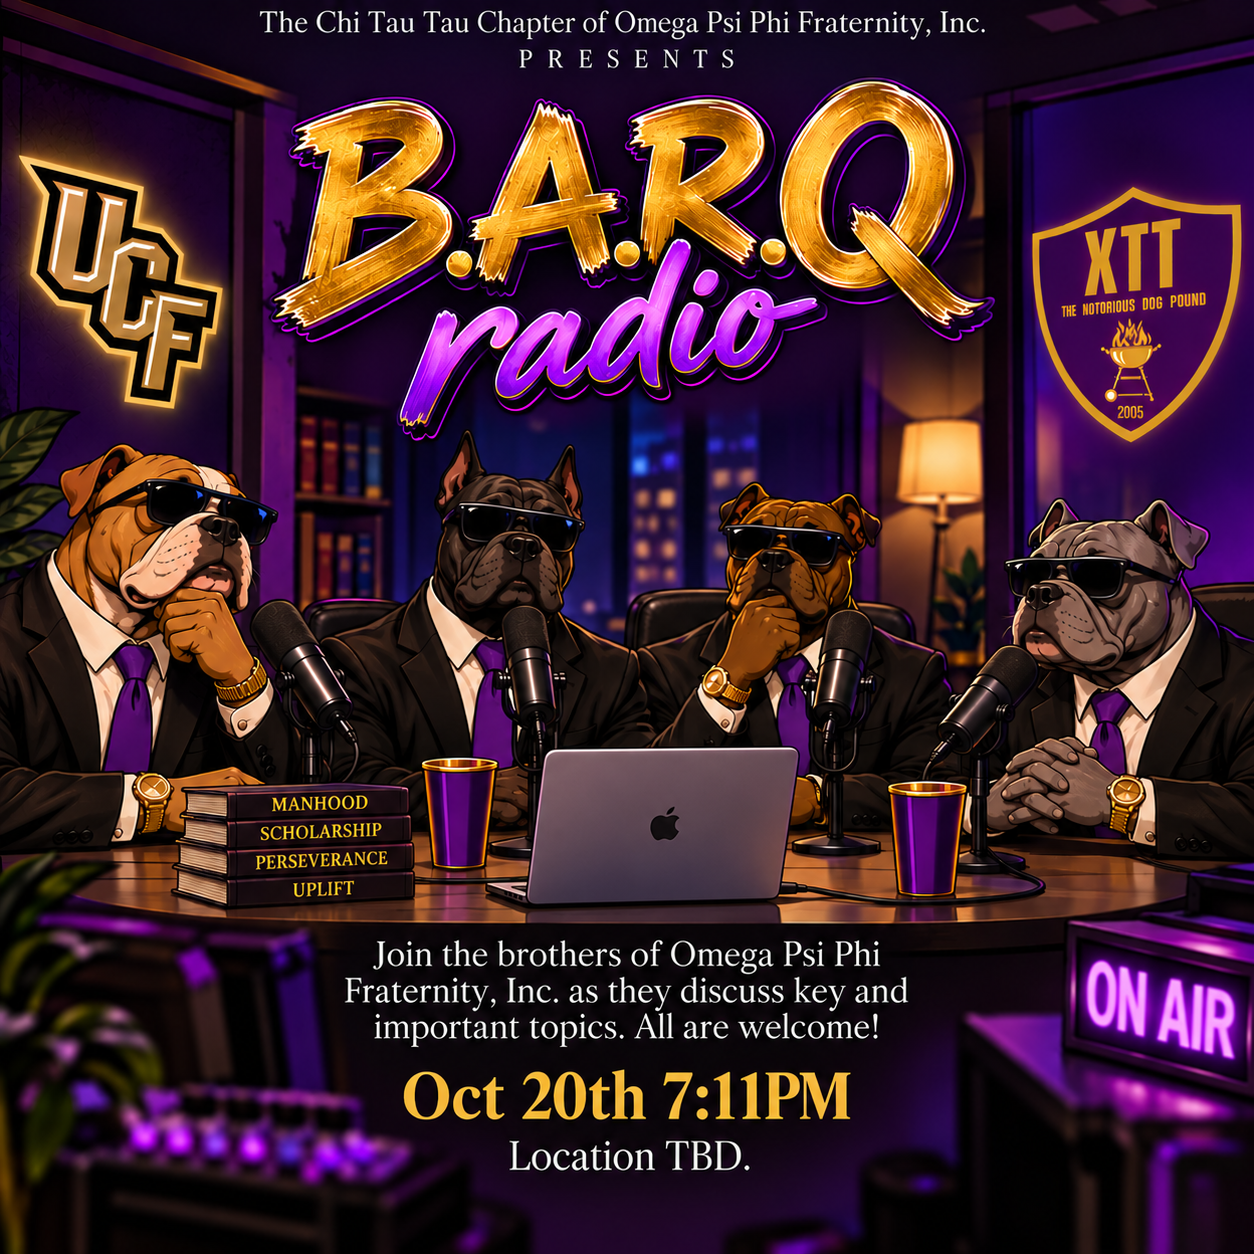
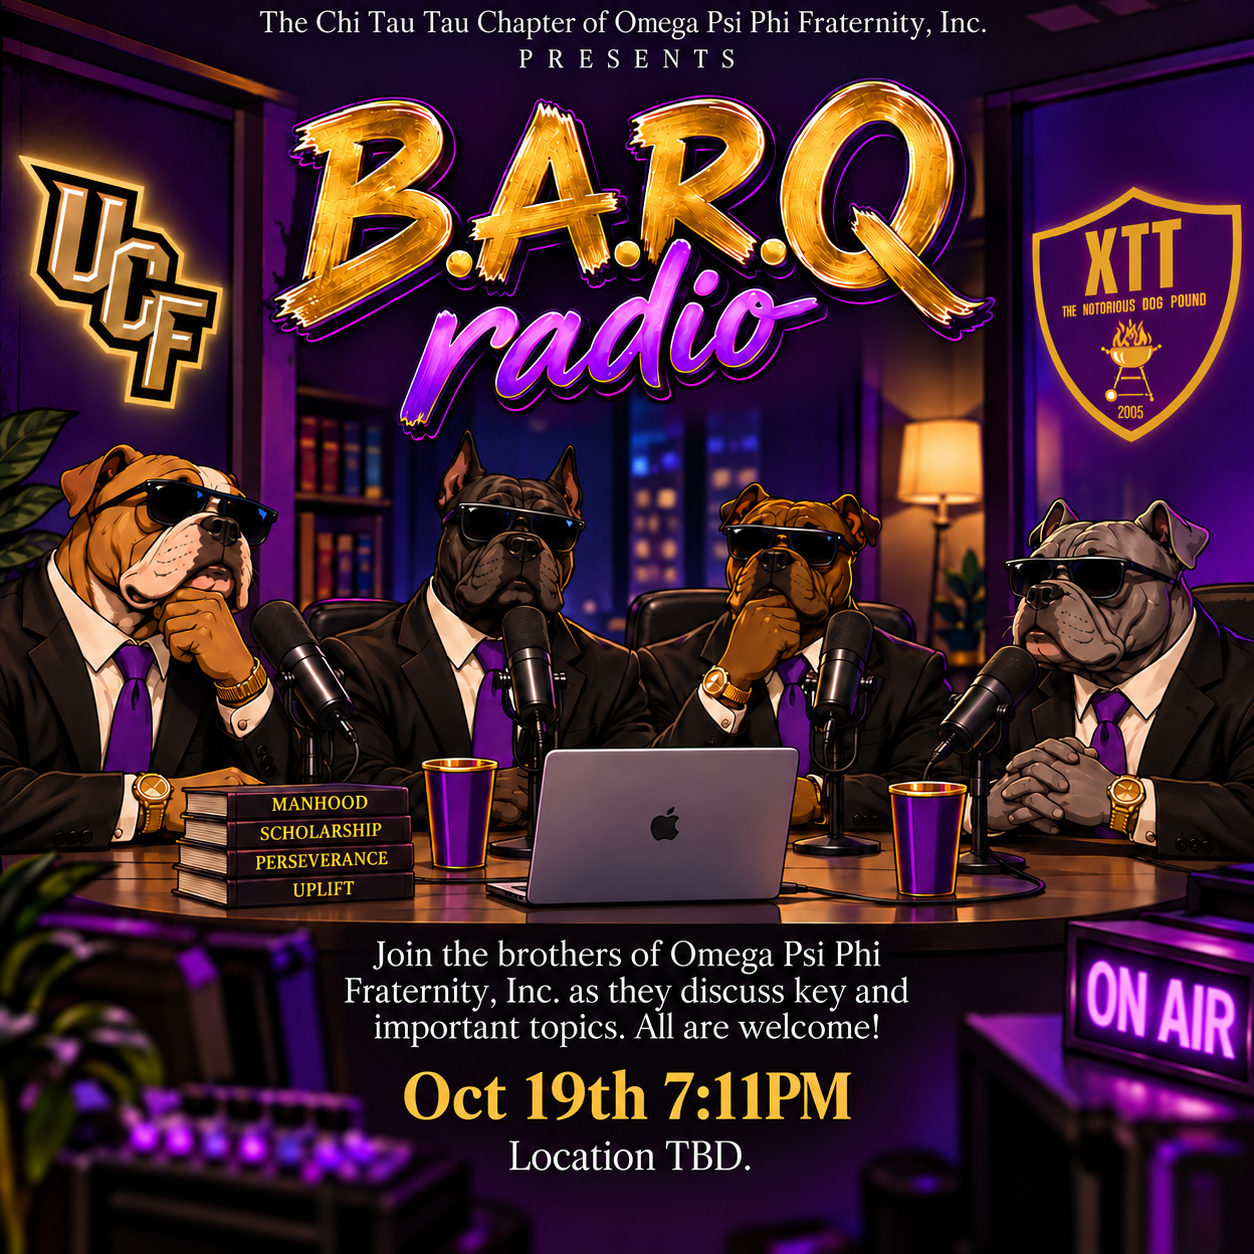
Update BARQ Radio flyer

diff --git a/layouts/events/list.html b/layouts/events/list.html
@@ -104,10 +104,14 @@
         flyer: "/images/pageant-flyer-27th..png"
     },
 
-    "2026-10-20": {
+    "2026-10-19": {
         title: "BARQ Radio",
         flyer: "/images/BARQ-Radio.png"
     }
+    //"2026-10-20": {
+        //title: "Professional EtiQUEtte"
+        //flyer: "/images/"
+    //}
 };
 
   function renderCalendar() {
@@ -195,9 +199,14 @@ const upcomingEvents = [
     },
     {
         title: "BARQ Radio",
-        date: "October 20, 2026",
+        date: "October 19, 2026",
         flyer: "/images/BARQ-Radio.png"
-    }
+    },
+   // {
+        //title: "Professional EtiQUEtte",
+        //date: "October 20, 2026",
+        //flyer: "/images/"
+    //}
 ];
 
 let currentEventIndex = 0;
